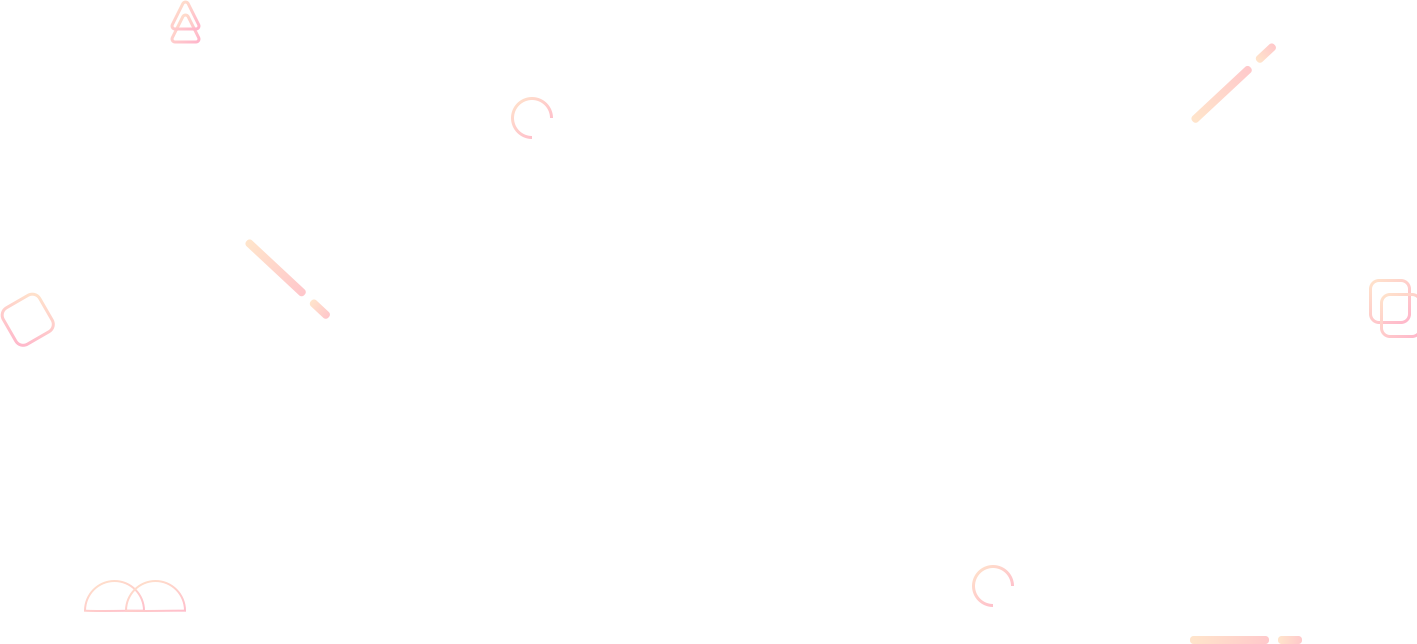
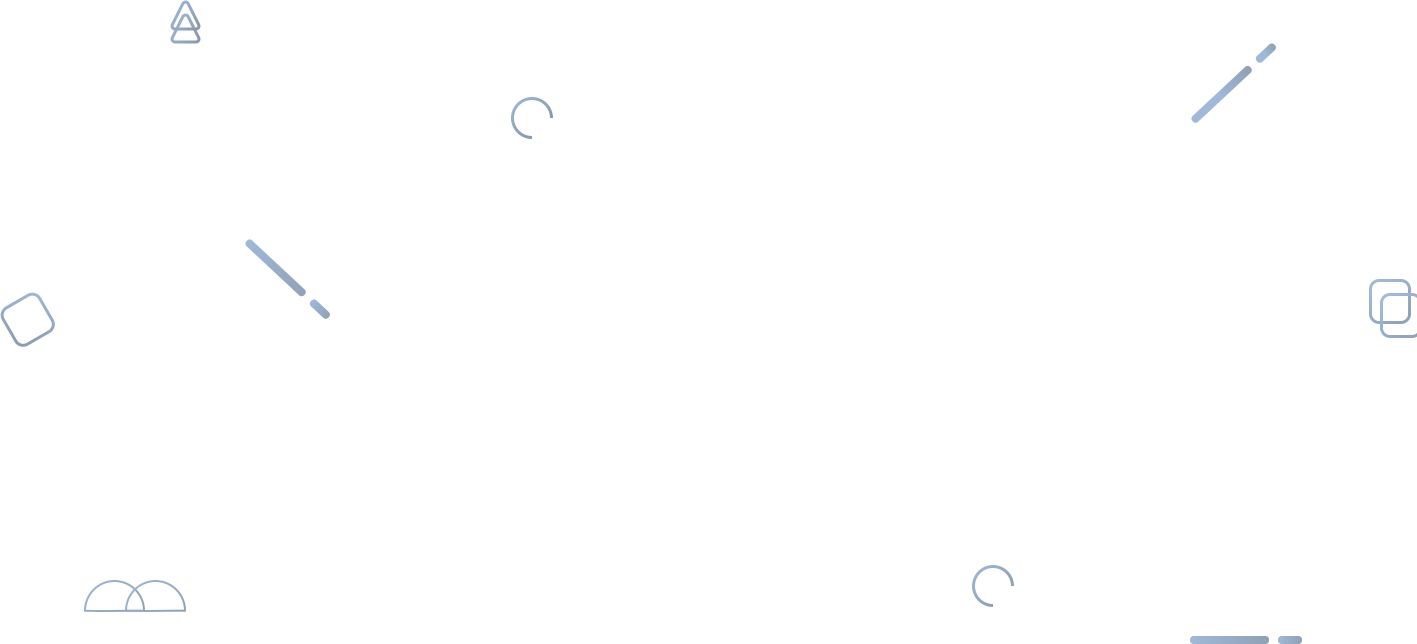
Updates style and resources according to new brand color

diff --git a/css/style.css b/css/style.css
@@ -16,11 +16,15 @@ nav.uk-active .uk-navbar-nav>li>a {
 }
 
 nav.uk-active .uk-navbar-nav>li>a:hover {
-    color: #ee395b;
+    color: #3F72AF;
 }
 
 nav.uk-navbar-nav {
     justify-content:flex-end;
+}
+
+.uk-navbar-nav>li:hover>a, .uk-navbar-nav>li>a.uk-open, .uk-navbar-nav>li>a:focus {
+    color: white;
 }
 
 .humberg-menu {
@@ -32,11 +36,11 @@ nav.uk-navbar-nav {
 }
 
 .text-color-primary {
-    color: #FF6B95;
+    color: #3F72AF;
 }
 
 .text-color-yellow {
-    color: #FFC796;
+    color: #112D4E;
 }
 
 .text-color-white-a70 {
@@ -61,7 +65,7 @@ nav.uk-navbar-nav {
     height: 0;
     border-left: 8px solid transparent;
     border-right: 8px solid transparent;
-    border-bottom: 16px solid rgba(255, 107, 149, 0.8);
+    border-bottom: 16px solid rgba(63, 114, 175, 0.8);
     position: relative;
     top: -27px;
     margin: 4px;
@@ -81,7 +85,7 @@ nav.uk-navbar-nav {
 .circle-feat {
     width: 900px;
     height: 900px;
-    background: linear-gradient(160deg, #FFC796 0%, #FF6B95 100%);
+    background: linear-gradient(160deg, #3F72AF 0%, #112D4E 100%);
     -moz-border-radius: 500px;
     -webkit-border-radius: 500px;
     border-radius: 500px;
@@ -94,7 +98,7 @@ nav.uk-navbar-nav {
 .circle-coin {
     width: 680px;
     height: 680px;
-    background: linear-gradient(-160deg, #FFC796 0%, #FF6B95 100%);
+    background: linear-gradient(160deg, #3F72AF 0%, #112D4E 100%);
     -moz-border-radius: 350px;
     -webkit-border-radius: 350px;
     border-radius: 350px;
@@ -107,18 +111,18 @@ nav.uk-navbar-nav {
 
 
 header {
-    background: url("../img/deco.png"),linear-gradient(137deg, #FFC796 0%, #FF6B95 100%);
+    background: url("../img/deco.png"),linear-gradient(137deg, #3F72AF 0%, #112D4E 100%);
     background-repeat: no-repeat;
     background-size: cover;
     min-height: 100vh;
 }
 
 header .uk-navbar-nav>li>a {
-    color: white;
+    color: rgba(255, 255, 255, 0.71);
 }
 
 header .uk-navbar-nav>li>a:hover {
-    color: black;
+    color: #ffffff;
 }
 
 header.uk-active {
@@ -131,7 +135,7 @@ header.uk-active {
 }
 
 .uk-navbar-nav>li>a.active {
-    color: #ee395b;
+    color: #3F72AF;
 }
 
 .grand-title {
@@ -144,7 +148,7 @@ header.uk-active {
 }
 
 .cta input {
-    height: 64px;
+    height: 63px;
     padding-left: 30px;
     padding-right: 50px;
 }
@@ -213,7 +217,7 @@ header.uk-active {
 }
 
 .roadmap {
-    background: linear-gradient(180deg, #FFC796 0%, #FF6B95 100%);
+    background: linear-gradient(180deg, #6385af 0%, #162e4e 100%);
     position: relative;
 }
 
@@ -318,7 +322,7 @@ header.uk-active {
     height: 100%;
     top: 0;
     border-radius: 50%;
-    background: linear-gradient(-160deg, rgba(255, 199, 150, 0.45) 0%, rgba(255, 107, 149, 0.45) 100%);
+    background: linear-gradient(-160deg, rgba(63, 114, 175, 0.46) 0%, rgba(17, 45, 78, 0.45) 100%);
     transition: all 0.4s;
     opacity: 1;
 }
@@ -332,11 +336,11 @@ header.uk-active {
 }
 
 .social-links .uk-icon-button{
-    background-color: rgba(255, 107, 149, 0.75);
+    background-color: rgba(63, 114, 175, 0.76);
     color: white;
 }
 .social-links .uk-icon-button:focus, .social-links .uk-icon-button:hover{
-    background-color: #FF6B95;
+    background-color: rgb(63, 114, 175);
     color: white;
 }
 
@@ -346,7 +350,7 @@ header.uk-active {
 
 .supp-logo-wrapper {
     display: inline-block;
-    border: 1px dashed #ee6893;
+    border: 1px dashed #3F72AF;
     padding: 38px 30px;
     border-radius: 50%;
 }
@@ -378,15 +382,15 @@ header.uk-active {
 }
 
 .hap-social a {
-    color: rgba(255, 107, 149, 0.76);
+    color: rgba(63, 114, 175, 0.77);
 }
 
 .hap-social a:hover {
-    color: #FF6B95;
+    color: #3F72AF;
 }
 
 footer {
-    background-image: linear-gradient(137deg, #FFC796 0%, #FF6B95 100%);
+    background: linear-gradient(137deg, #3F72AF 0%, #112D4E 100%);
 }
 
 @media (max-width: 400px) {

diff --git a/index.html b/index.html
@@ -117,7 +117,7 @@
 
                 <div class="feat-img uk-visible@l">
                     <div class="circle-feat"></div>
-                    <img src="img/screen_mocks.png" alt="">
+                    <img src="img/screen_mocks_v2.png" alt="">
                 </div>
 
                 <div class="feat cta uk-margin-large-top uk-width-1-2@l uk-width-2-3@m">
@@ -162,7 +162,7 @@
 
                 <div class="coin-img uk-visible@l">
                     <div class="circle-coin"></div>
-                    <img src="img/logo_circle.png" alt="">
+                    <img src="img/logo_circle_new.png" alt="">
                 </div>
 
                 <div class="uk-grid">
